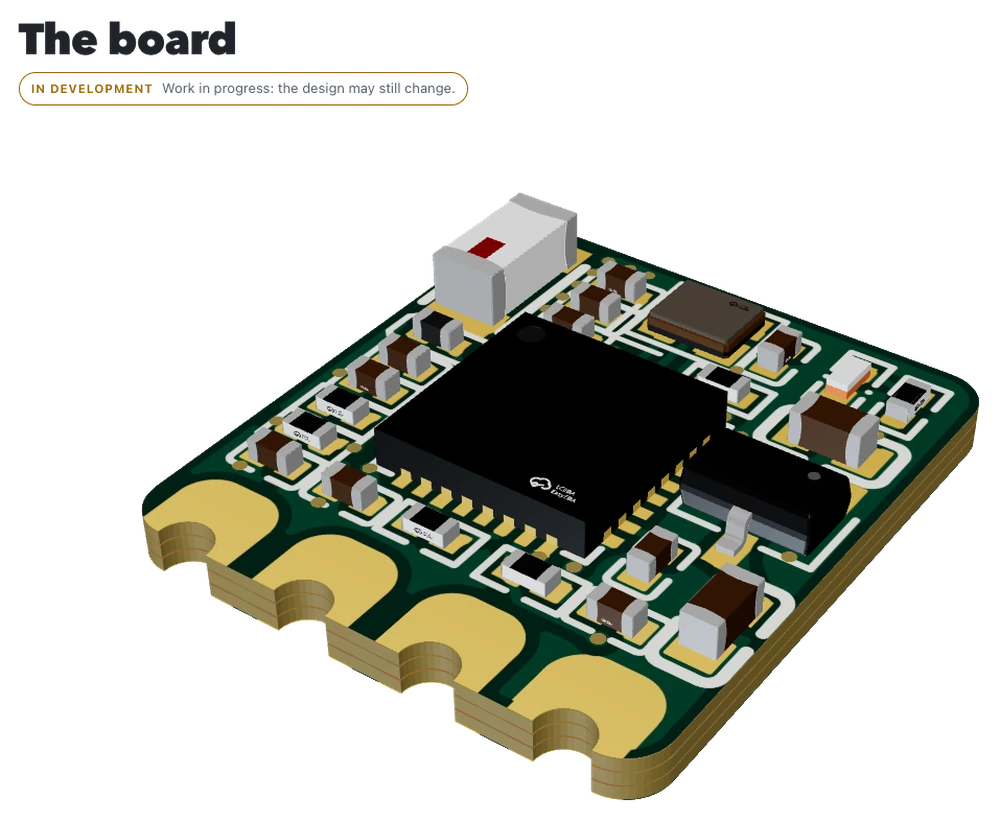
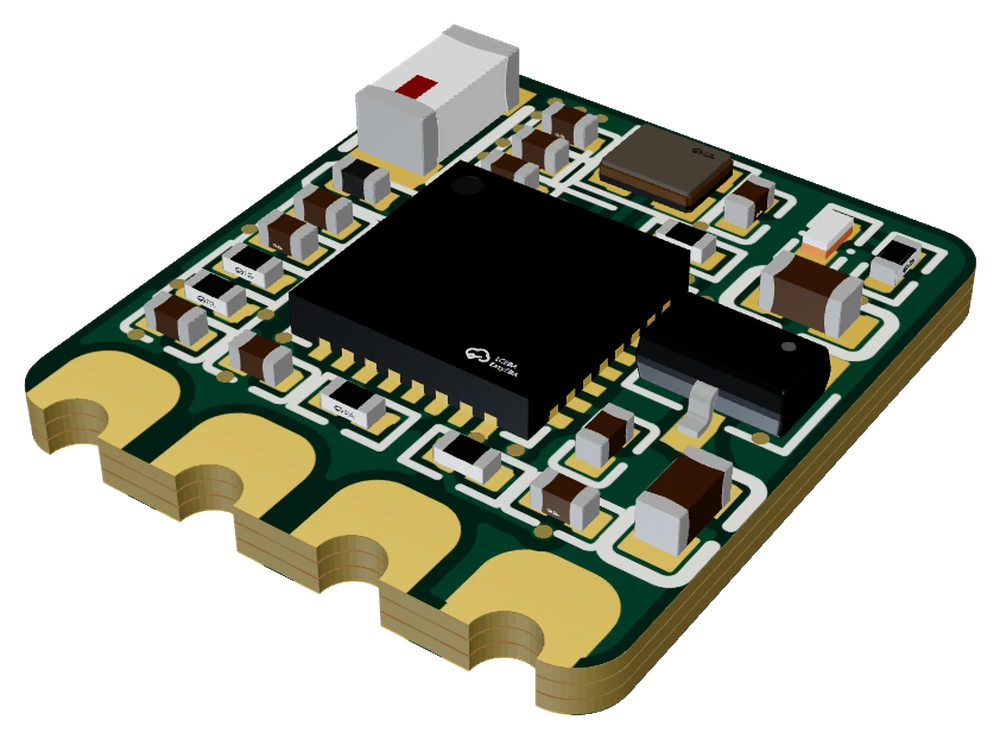
Landing page: bigger hero, featured RecLink card with board image and tags; clean board still

diff --git a/index.html b/index.html
@@ -12,16 +12,38 @@
 <link rel="icon" type="image/svg+xml" href="RecLink/assets/favicon.svg">
 <script>try{var t=localStorage.getItem('rl-theme');if(t)document.documentElement.dataset.theme=t}catch(e){}</script>
 <link rel="stylesheet" href="RecLink/assets/site.css">
+<style>
+.home .hero{padding:3.2rem 0 1.6rem;position:relative}
+.home .hero h1{font-size:clamp(3.4rem,10vw,6rem);margin:0 0 .5rem}
+.home .hero .sub{font-size:1.3rem;color:var(--mut);margin:0 0 1.3rem;max-width:34rem}
+.home .hero::before{content:"";position:absolute;inset:-4rem -40vw auto -40vw;height:22rem;z-index:-1;pointer-events:none;
+  background:radial-gradient(50% 100% at 25% 0,color-mix(in srgb,var(--acc) 20%,transparent),transparent 70%)}
+.home h2.plain{margin-top:2.2rem;font-size:.8rem;letter-spacing:.14em;text-transform:uppercase;color:var(--mut)}
+.proj{display:grid;grid-template-columns:1.05fr .95fr;gap:1rem;align-items:center;background:var(--card);border:1px solid var(--line);border-radius:var(--radius-xl);overflow:hidden;transition:border-color .15s}
+.proj:hover{border-color:var(--acc)}
+.proj-txt{padding:2rem 1.2rem 2rem 2rem}
+.proj-k{margin:0 0 .5rem;font-size:.75rem;letter-spacing:.14em;text-transform:uppercase;color:var(--acc-ink);font-weight:700}
+.proj h3{text-transform:none;color:var(--fg);display:flex;align-items:center;gap:.45rem;margin:0 0 .6rem;font:900 2.1rem/1 var(--font-brand);letter-spacing:-.02em}
+.proj h3 .mark{height:.7em;width:auto;color:var(--acc-ink)}
+.proj p{color:var(--mut);margin:0 0 1rem}
+.tags{list-style:none;display:flex;flex-wrap:wrap;gap:.4rem;margin:0 0 1.3rem;padding:0}
+.tags li{border:1px solid var(--line);border-radius:var(--radius-md);padding:.1rem .65rem;font-size:.82rem;color:var(--mut)}
+.proj .actions{display:flex;flex-wrap:wrap;gap:.6rem}
+.proj-img{display:block;align-self:stretch;background:radial-gradient(70% 70% at 50% 50%,color-mix(in srgb,var(--acc) 18%,transparent),transparent 75%)}
+.proj-img img{display:block;width:100%;height:100%;object-fit:contain;padding:1.2rem}
+@media (max-width:760px){.proj{grid-template-columns:1fr}.proj-txt{padding:1.4rem}.proj-img{order:-1}.proj-img img{max-height:240px}}
+</style>
 </head>
-<body data-doc="home">
+<body data-doc="home" class="home">
 <header class="topbar"><div class="bar"><a class="brand" href="./"><span>FPVitt</span></a>
 <div class="tools"><a class="icon gh-btn" href="https://github.com/FPVitt" target="_blank" rel="noopener" title="GitHub" aria-label="GitHub"><svg viewBox="0 0 16 16" aria-hidden="true" fill="currentColor"><path d="M8 0C3.58 0 0 3.58 0 8c0 3.54 2.29 6.53 5.47 7.59.4.07.55-.17.55-.38 0-.19-.01-.82-.01-1.49-2.01.37-2.53-.49-2.69-.94-.09-.23-.48-.94-.82-1.13-.28-.15-.68-.52-.01-.53.63-.01 1.08.58 1.23.82.72 1.21 1.87.87 2.33.66.07-.52.28-.87.51-1.07-1.78-.2-3.64-.89-3.64-3.95 0-.87.31-1.59.82-2.15-.08-.2-.36-1.02.08-2.12 0 0 .67-.21 2.2.82.64-.18 1.32-.27 2-.27s1.36.09 2 .27c1.53-1.04 2.2-.82 2.2-.82.44 1.1.16 1.92.08 2.12.51.56.82 1.27.82 2.15 0 3.07-1.87 3.75-3.65 3.95.29.25.54.73.54 1.48 0 1.07-.01 1.93-.01 2.2 0 .21.15.46.55.38A8.01 8.01 0 0 0 16 8c0-4.42-3.58-8-8-8z"/></svg></a>
 <button class="icon theme-btn" type="button" title="Switch light / dark theme" aria-label="Switch light / dark theme"><svg viewBox="0 0 24 24" aria-hidden="true"><path d="M12 3a9 9 0 1 0 9 9 7 7 0 0 1-9-9z" fill="none" stroke="currentColor" stroke-width="2" stroke-linejoin="round"/></svg></button></div>
 </div></header>
 <div class="layout"><main id="main" class="content">
-<div class="hero"><h1>FPVitt</h1><p class="sub">FPV and drone projects, guides and tools.</p></div>
+<div class="hero"><h1>FPVitt</h1><p class="sub">FPV and drone projects, guides and tools.</p>
+<p><a class="btn ghost" href="https://github.com/FPVitt" target="_blank" rel="noopener"><svg viewBox="0 0 16 16" aria-hidden="true" fill="currentColor"><path d="M8 0C3.58 0 0 3.58 0 8c0 3.54 2.29 6.53 5.47 7.59.4.07.55-.17.55-.38 0-.19-.01-.82-.01-1.49-2.01.37-2.53-.49-2.69-.94-.09-.23-.48-.94-.82-1.13-.28-.15-.68-.52-.01-.53.63-.01 1.08.58 1.23.82.72 1.21 1.87.87 2.33.66.07-.52.28-.87.51-1.07-1.78-.2-3.64-.89-3.64-3.95 0-.87.31-1.59.82-2.15-.08-.2-.36-1.02.08-2.12 0 0 .67-.21 2.2.82.64-.18 1.32-.27 2-.27s1.36.09 2 .27c1.53-1.04 2.2-.82 2.2-.82.44 1.1.16 1.92.08 2.12.51.56.82 1.27.82 2.15 0 3.07-1.87 3.75-3.65 3.95.29.25.54.73.54 1.48 0 1.07-.01 1.93-.01 2.2 0 .21.15.46.55.38A8.01 8.01 0 0 0 16 8c0-4.42-3.58-8-8-8z"/></svg>View on GitHub</a></p></div>
 <h2 class="plain">Projects</h2>
-<div class="cards"><article class="card"><span class="ico"><svg viewBox="0 0 24 24" aria-hidden="true"><rect x="6" y="6" width="12" height="12" rx="2" fill="none" stroke="currentColor" stroke-width="1.8"/><rect x="9.5" y="9.5" width="5" height="5" fill="currentColor" stroke="none"/><path d="M9 3v3M15 3v3M9 18v3M15 18v3M3 9h3M3 15h3M18 9h3M18 15h3" stroke="currentColor" stroke-width="1.8" stroke-linecap="round"/></svg></span><h2>RecLink</h2><p>A tiny ESP32 board that links your Betaflight flight controller to your GoPro or DJI Osmo: record control, OSD status and GPS clock sync. Guides, 3D board and firmware installer.</p><div class="actions"><a class="btn" href="RecLink/">Open</a></div></article></div>
+<article class="proj"><div class="proj-txt"><p class="proj-k">Project</p><h3><svg class="mark" viewBox="0 0 168 80" aria-hidden="true"><path fill="currentColor" d="M6 6h30v12H18v44h18v12H6zM132 6h30v68h-30V62h18V18h-18z"/><circle fill="currentColor" cx="84" cy="40" r="21"/></svg>RecLink</h3><p>A tiny ESP32 board that links your Betaflight flight controller to your GoPro or DJI Osmo: record control from your radio, camera status on the OSD and GPS clock sync. Guides, a 3D board explorer and the firmware installer.</p><ul class="tags"><li>Betaflight</li><li>GoPro</li><li>DJI Osmo</li><li>ESP32-C3</li></ul><div class="actions"><a class="btn" href="RecLink/">Open the guides &rarr;</a><a class="btn ghost" href="https://github.com/FPVitt/RecLink" target="_blank" rel="noopener"><svg viewBox="0 0 16 16" aria-hidden="true" fill="currentColor"><path d="M8 0C3.58 0 0 3.58 0 8c0 3.54 2.29 6.53 5.47 7.59.4.07.55-.17.55-.38 0-.19-.01-.82-.01-1.49-2.01.37-2.53-.49-2.69-.94-.09-.23-.48-.94-.82-1.13-.28-.15-.68-.52-.01-.53.63-.01 1.08.58 1.23.82.72 1.21 1.87.87 2.33.66.07-.52.28-.87.51-1.07-1.78-.2-3.64-.89-3.64-3.95 0-.87.31-1.59.82-2.15-.08-.2-.36-1.02.08-2.12 0 0 .67-.21 2.2.82.64-.18 1.32-.27 2-.27s1.36.09 2 .27c1.53-1.04 2.2-.82 2.2-.82.44 1.1.16 1.92.08 2.12.51.56.82 1.27.82 2.15 0 3.07-1.87 3.75-3.65 3.95.29.25.54.73.54 1.48 0 1.07-.01 1.93-.01 2.2 0 .21.15.46.55.38A8.01 8.01 0 0 0 16 8c0-4.42-3.58-8-8-8z"/></svg>Source code</a></div></div><a class="proj-img" href="RecLink/" tabindex="-1" aria-hidden="true"><img src="RecLink/assets/board/board-iso.webp" alt="" width="1000" height="739" loading="eager"></a></article>
 </main></div>
 <footer class="site-foot"><div><span>FPVitt</span><a href="https://github.com/FPVitt">GitHub</a></div></footer>
 <script src="RecLink/assets/site.js" defer></script>

diff --git a/src/reclink/build_web.py b/src/reclink/build_web.py
@@ -562,15 +562,41 @@ h1{font-size:2.4rem;margin:0 0 1rem}
 
 
 def build_home():
-    """Landing page of the whole site (https://fpvitt.github.io/): one card per project."""
+    """Landing page of the whole site (https://fpvitt.github.io/): one featured card per project."""
     projects = [
-        dict(href="RecLink/", icon="rec", title="RecLink",
-             desc="A tiny ESP32 board that links your Betaflight flight controller to your GoPro or DJI Osmo: record control, OSD status and GPS clock sync. Guides, 3D board and firmware installer."),
+        dict(href="RecLink/", title="RecLink", img="RecLink/assets/board/board-iso.webp",
+             desc="A tiny ESP32 board that links your Betaflight flight controller to your GoPro or DJI Osmo: record control from your radio, camera status on the OSD and GPS clock sync. Guides, a 3D board explorer and the firmware installer.",
+             tags=("Betaflight", "GoPro", "DJI Osmo", "ESP32-C3"), src="https://github.com/FPVitt/RecLink"),
     ]
-    cards = "".join(
-        f'<article class="card"><span class="ico">{MARK_ICO if p["icon"] == "rec" else ""}</span><h2>{p["title"]}</h2><p>{p["desc"]}</p>'
-        f'<div class="actions"><a class="btn" href="{p["href"]}">Open</a></div></article>' for p in projects)
+    cards = ""
+    for p in projects:
+        tags = "".join(f"<li>{t}</li>" for t in p["tags"])
+        cards += (f'<article class="proj"><div class="proj-txt"><p class="proj-k">Project</p><h3>{MARK}{p["title"]}</h3><p>{p["desc"]}</p><ul class="tags">{tags}</ul>'
+                  f'<div class="actions"><a class="btn" href="{p["href"]}">Open the guides &rarr;</a>'
+                  f'<a class="btn ghost" href="{p["src"]}" target="_blank" rel="noopener">{GH_SVG}Source code</a></div></div>'
+                  f'<a class="proj-img" href="{p["href"]}" tabindex="-1" aria-hidden="true"><img src="{p["img"]}" alt="" width="1000" height="739" loading="eager"></a></article>')
     desc = "FPVitt: FPV and drone projects, guides and tools."
+    css = """
+.home .hero{padding:3.2rem 0 1.6rem;position:relative}
+.home .hero h1{font-size:clamp(3.4rem,10vw,6rem);margin:0 0 .5rem}
+.home .hero .sub{font-size:1.3rem;color:var(--mut);margin:0 0 1.3rem;max-width:34rem}
+.home .hero::before{content:"";position:absolute;inset:-4rem -40vw auto -40vw;height:22rem;z-index:-1;pointer-events:none;
+  background:radial-gradient(50% 100% at 25% 0,color-mix(in srgb,var(--acc) 20%,transparent),transparent 70%)}
+.home h2.plain{margin-top:2.2rem;font-size:.8rem;letter-spacing:.14em;text-transform:uppercase;color:var(--mut)}
+.proj{display:grid;grid-template-columns:1.05fr .95fr;gap:1rem;align-items:center;background:var(--card);border:1px solid var(--line);border-radius:var(--radius-xl);overflow:hidden;transition:border-color .15s}
+.proj:hover{border-color:var(--acc)}
+.proj-txt{padding:2rem 1.2rem 2rem 2rem}
+.proj-k{margin:0 0 .5rem;font-size:.75rem;letter-spacing:.14em;text-transform:uppercase;color:var(--acc-ink);font-weight:700}
+.proj h3{text-transform:none;color:var(--fg);display:flex;align-items:center;gap:.45rem;margin:0 0 .6rem;font:900 2.1rem/1 var(--font-brand);letter-spacing:-.02em}
+.proj h3 .mark{height:.7em;width:auto;color:var(--acc-ink)}
+.proj p{color:var(--mut);margin:0 0 1rem}
+.tags{list-style:none;display:flex;flex-wrap:wrap;gap:.4rem;margin:0 0 1.3rem;padding:0}
+.tags li{border:1px solid var(--line);border-radius:var(--radius-md);padding:.1rem .65rem;font-size:.82rem;color:var(--mut)}
+.proj .actions{display:flex;flex-wrap:wrap;gap:.6rem}
+.proj-img{display:block;align-self:stretch;background:radial-gradient(70% 70% at 50% 50%,color-mix(in srgb,var(--acc) 18%,transparent),transparent 75%)}
+.proj-img img{display:block;width:100%;height:100%;object-fit:contain;padding:1.2rem}
+@media (max-width:760px){.proj{grid-template-columns:1fr}.proj-txt{padding:1.4rem}.proj-img{order:-1}.proj-img img{max-height:240px}}
+"""
     page_html = f'''<!doctype html>
 <html lang="en" data-theme="auto">
 <head>
@@ -585,16 +611,18 @@ def build_home():
 <link rel="icon" type="image/svg+xml" href="RecLink/assets/favicon.svg">
 <script>try{{var t=localStorage.getItem('rl-theme');if(t)document.documentElement.dataset.theme=t}}catch(e){{}}</script>
 <link rel="stylesheet" href="RecLink/assets/site.css">
+<style>{css}</style>
 </head>
-<body data-doc="home">
+<body data-doc="home" class="home">
 <header class="topbar"><div class="bar"><a class="brand" href="./"><span>FPVitt</span></a>
 <div class="tools"><a class="icon gh-btn" href="https://github.com/FPVitt" target="_blank" rel="noopener" title="GitHub" aria-label="GitHub">{GH_SVG}</a>
 <button class="icon theme-btn" type="button" title="Switch light / dark theme" aria-label="Switch light / dark theme"><svg viewBox="0 0 24 24" aria-hidden="true"><path d="M12 3a9 9 0 1 0 9 9 7 7 0 0 1-9-9z" fill="none" stroke="currentColor" stroke-width="2" stroke-linejoin="round"/></svg></button></div>
 </div></header>
 <div class="layout"><main id="main" class="content">
-<div class="hero"><h1>FPVitt</h1><p class="sub">FPV and drone projects, guides and tools.</p></div>
+<div class="hero"><h1>FPVitt</h1><p class="sub">FPV and drone projects, guides and tools.</p>
+<p><a class="btn ghost" href="https://github.com/FPVitt" target="_blank" rel="noopener">{GH_SVG}View on GitHub</a></p></div>
 <h2 class="plain">Projects</h2>
-<div class="cards">{cards}</div>
+{cards}
 </main></div>
 <footer class="site-foot"><div><span>FPVitt</span><a href="https://github.com/FPVitt">GitHub</a></div></footer>
 <script src="RecLink/assets/site.js" defer></script>
